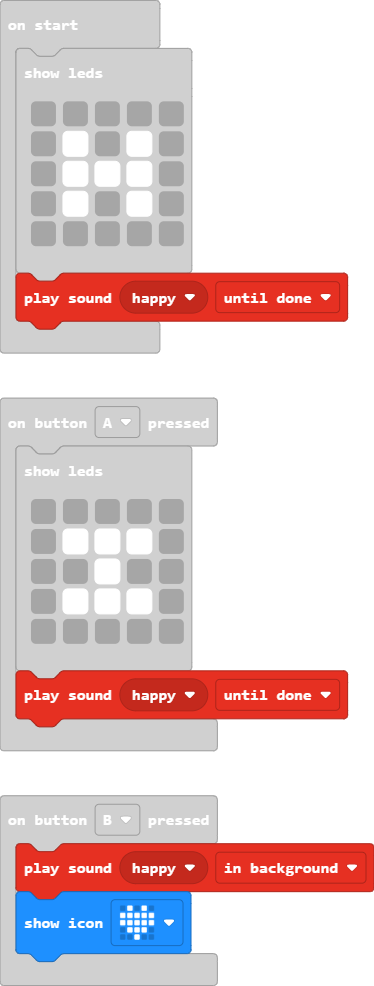
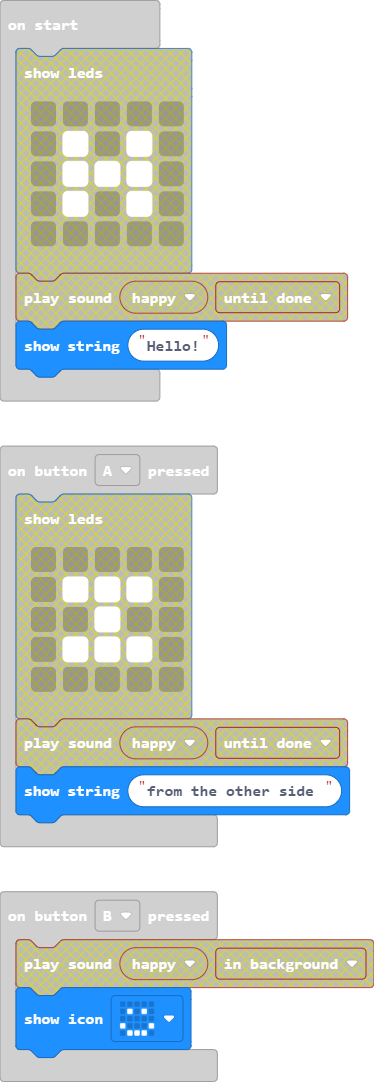
Update main.blocks, main.ts

diff --git a/main.ts b/main.ts
@@ -1,22 +1,7 @@
 input.onButtonPressed(Button.A, function () {
-    basic.showLeds(`
-        . . . . .
-        . # # # .
-        . . # . .
-        . # # # .
-        . . . . .
-        `)
-    music.playSoundEffect(music.builtinSoundEffect(soundExpression.happy), SoundExpressionPlayMode.UntilDone)
+    basic.showString("from the other side ")
 })
 input.onButtonPressed(Button.B, function () {
-    music.playSoundEffect(music.builtinSoundEffect(soundExpression.happy), SoundExpressionPlayMode.InBackground)
-    basic.showIcon(IconNames.Heart)
+    basic.showIcon(IconNames.Happy)
 })
-basic.showLeds(`
-    . . . . .
-    . # . # .
-    . # # # .
-    . # . # .
-    . . . . .
-    `)
-music.playSoundEffect(music.builtinSoundEffect(soundExpression.happy), SoundExpressionPlayMode.UntilDone)
+basic.showString("Hello!")
